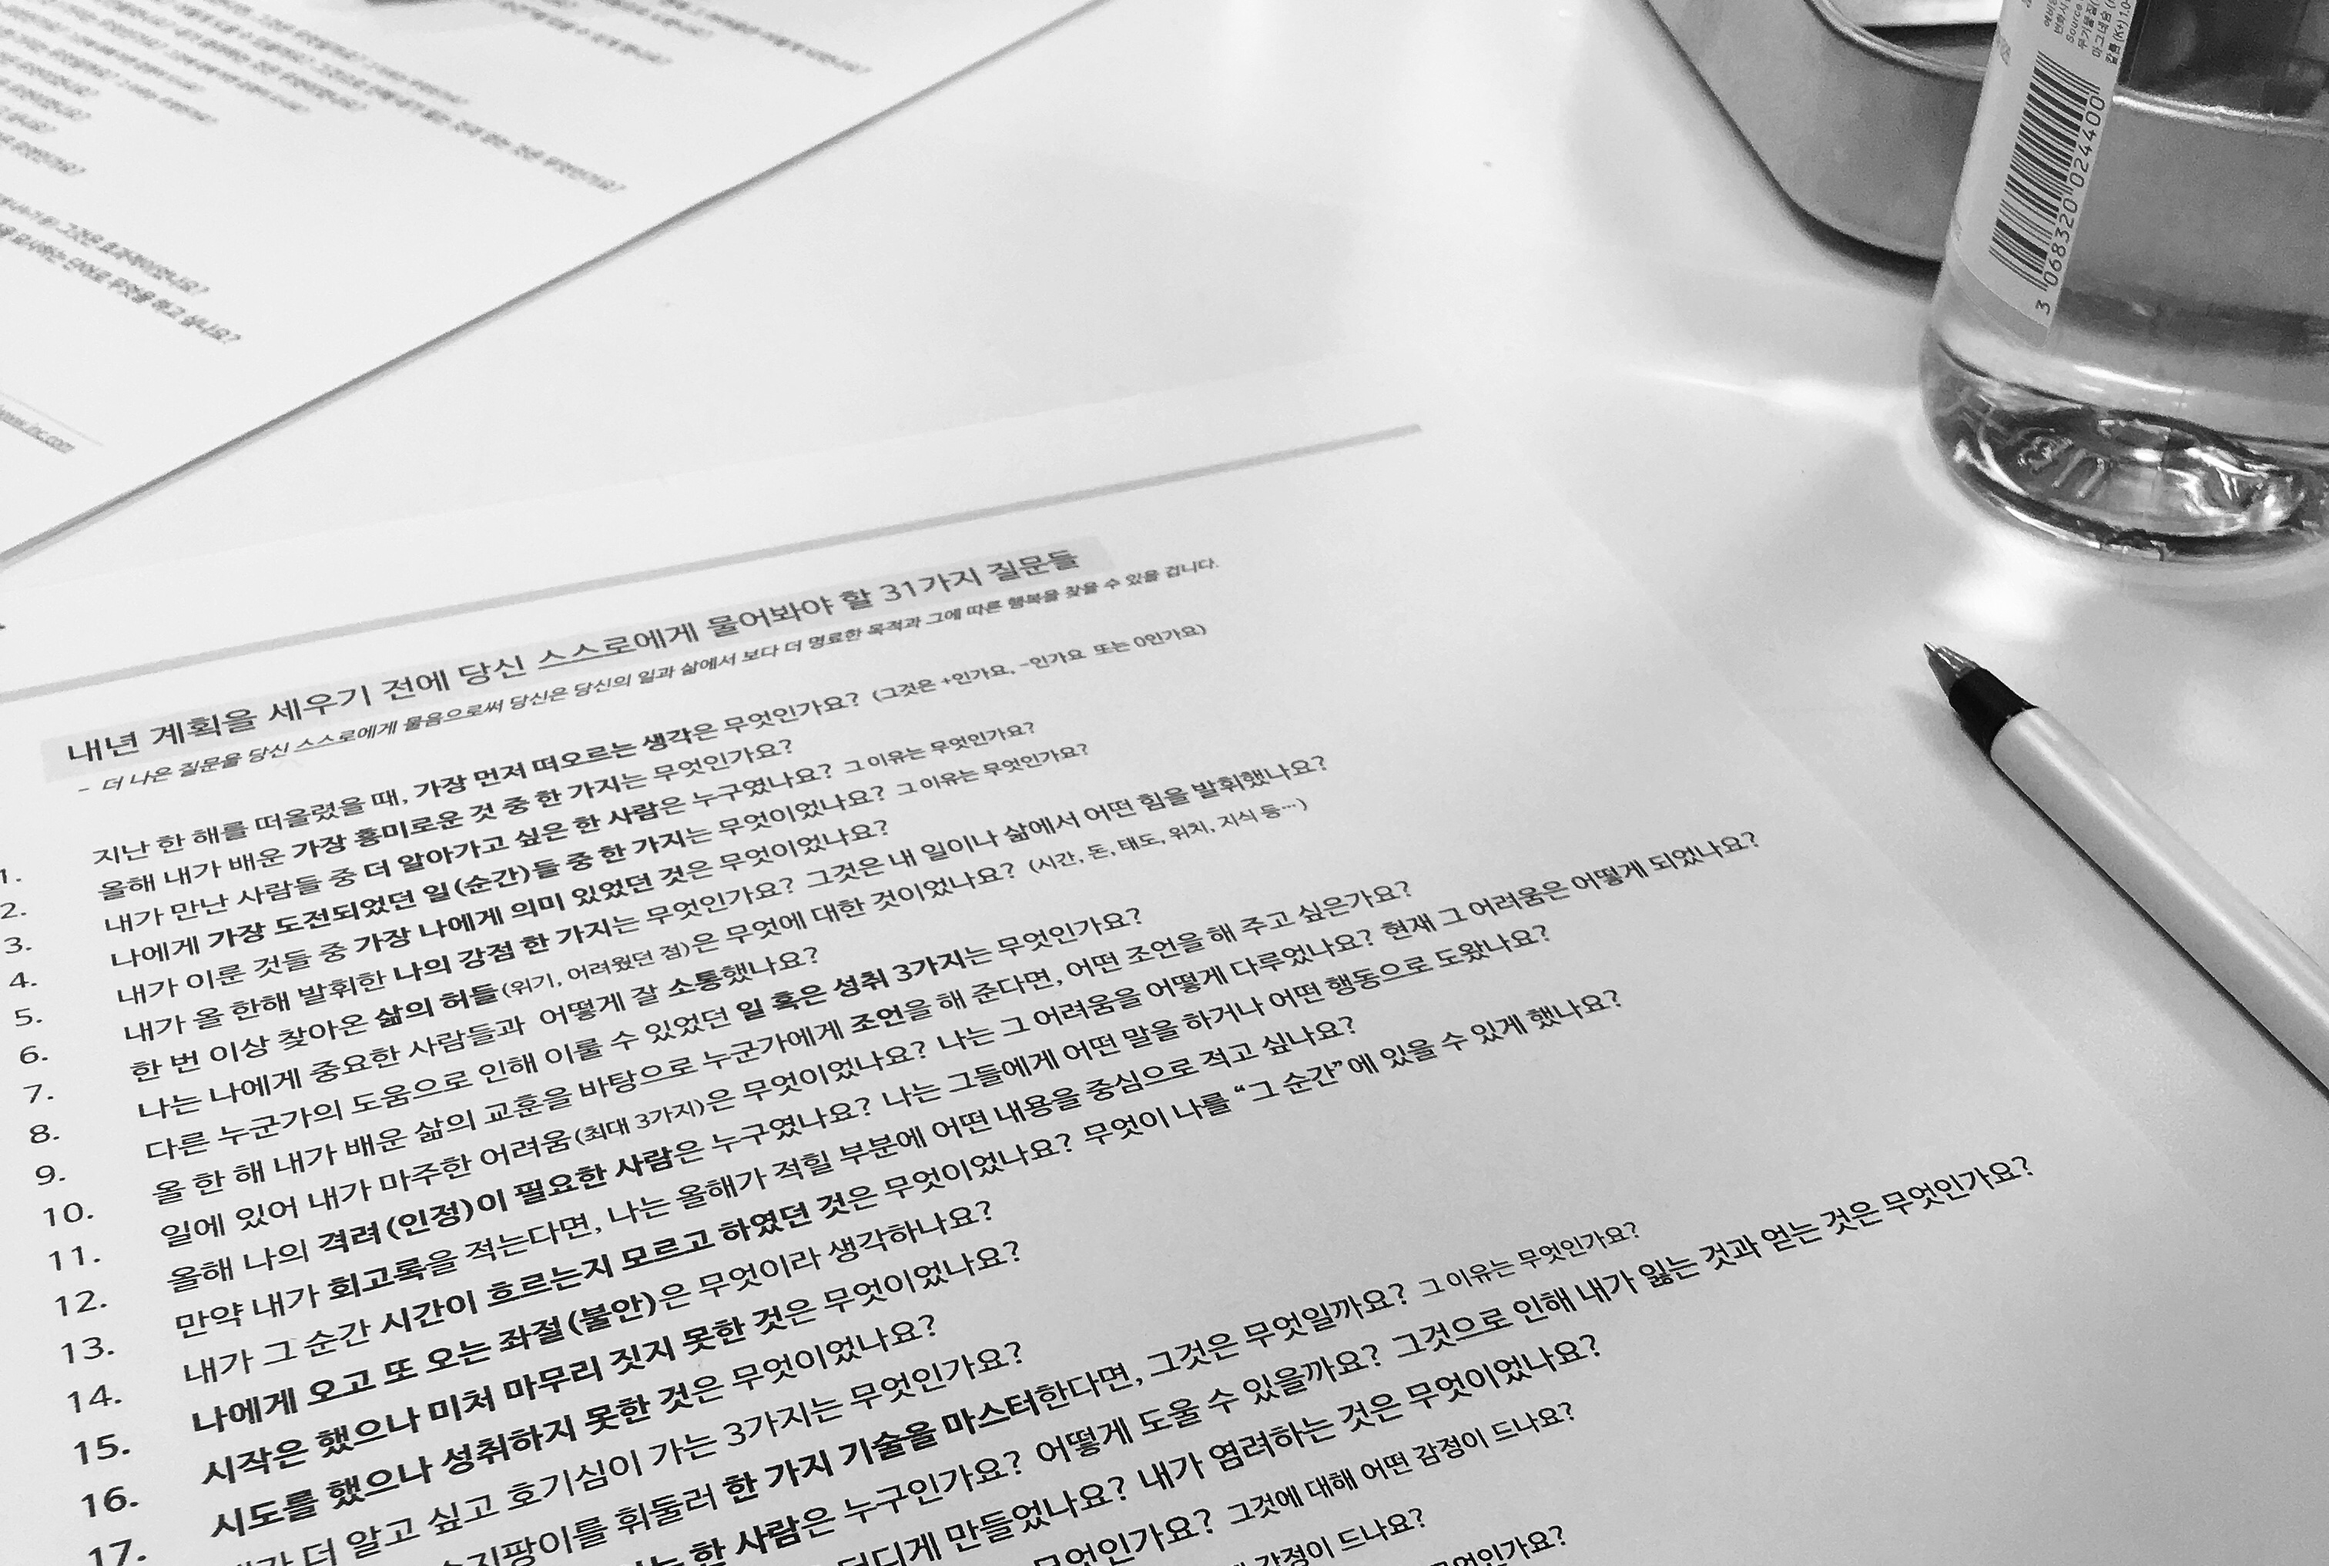
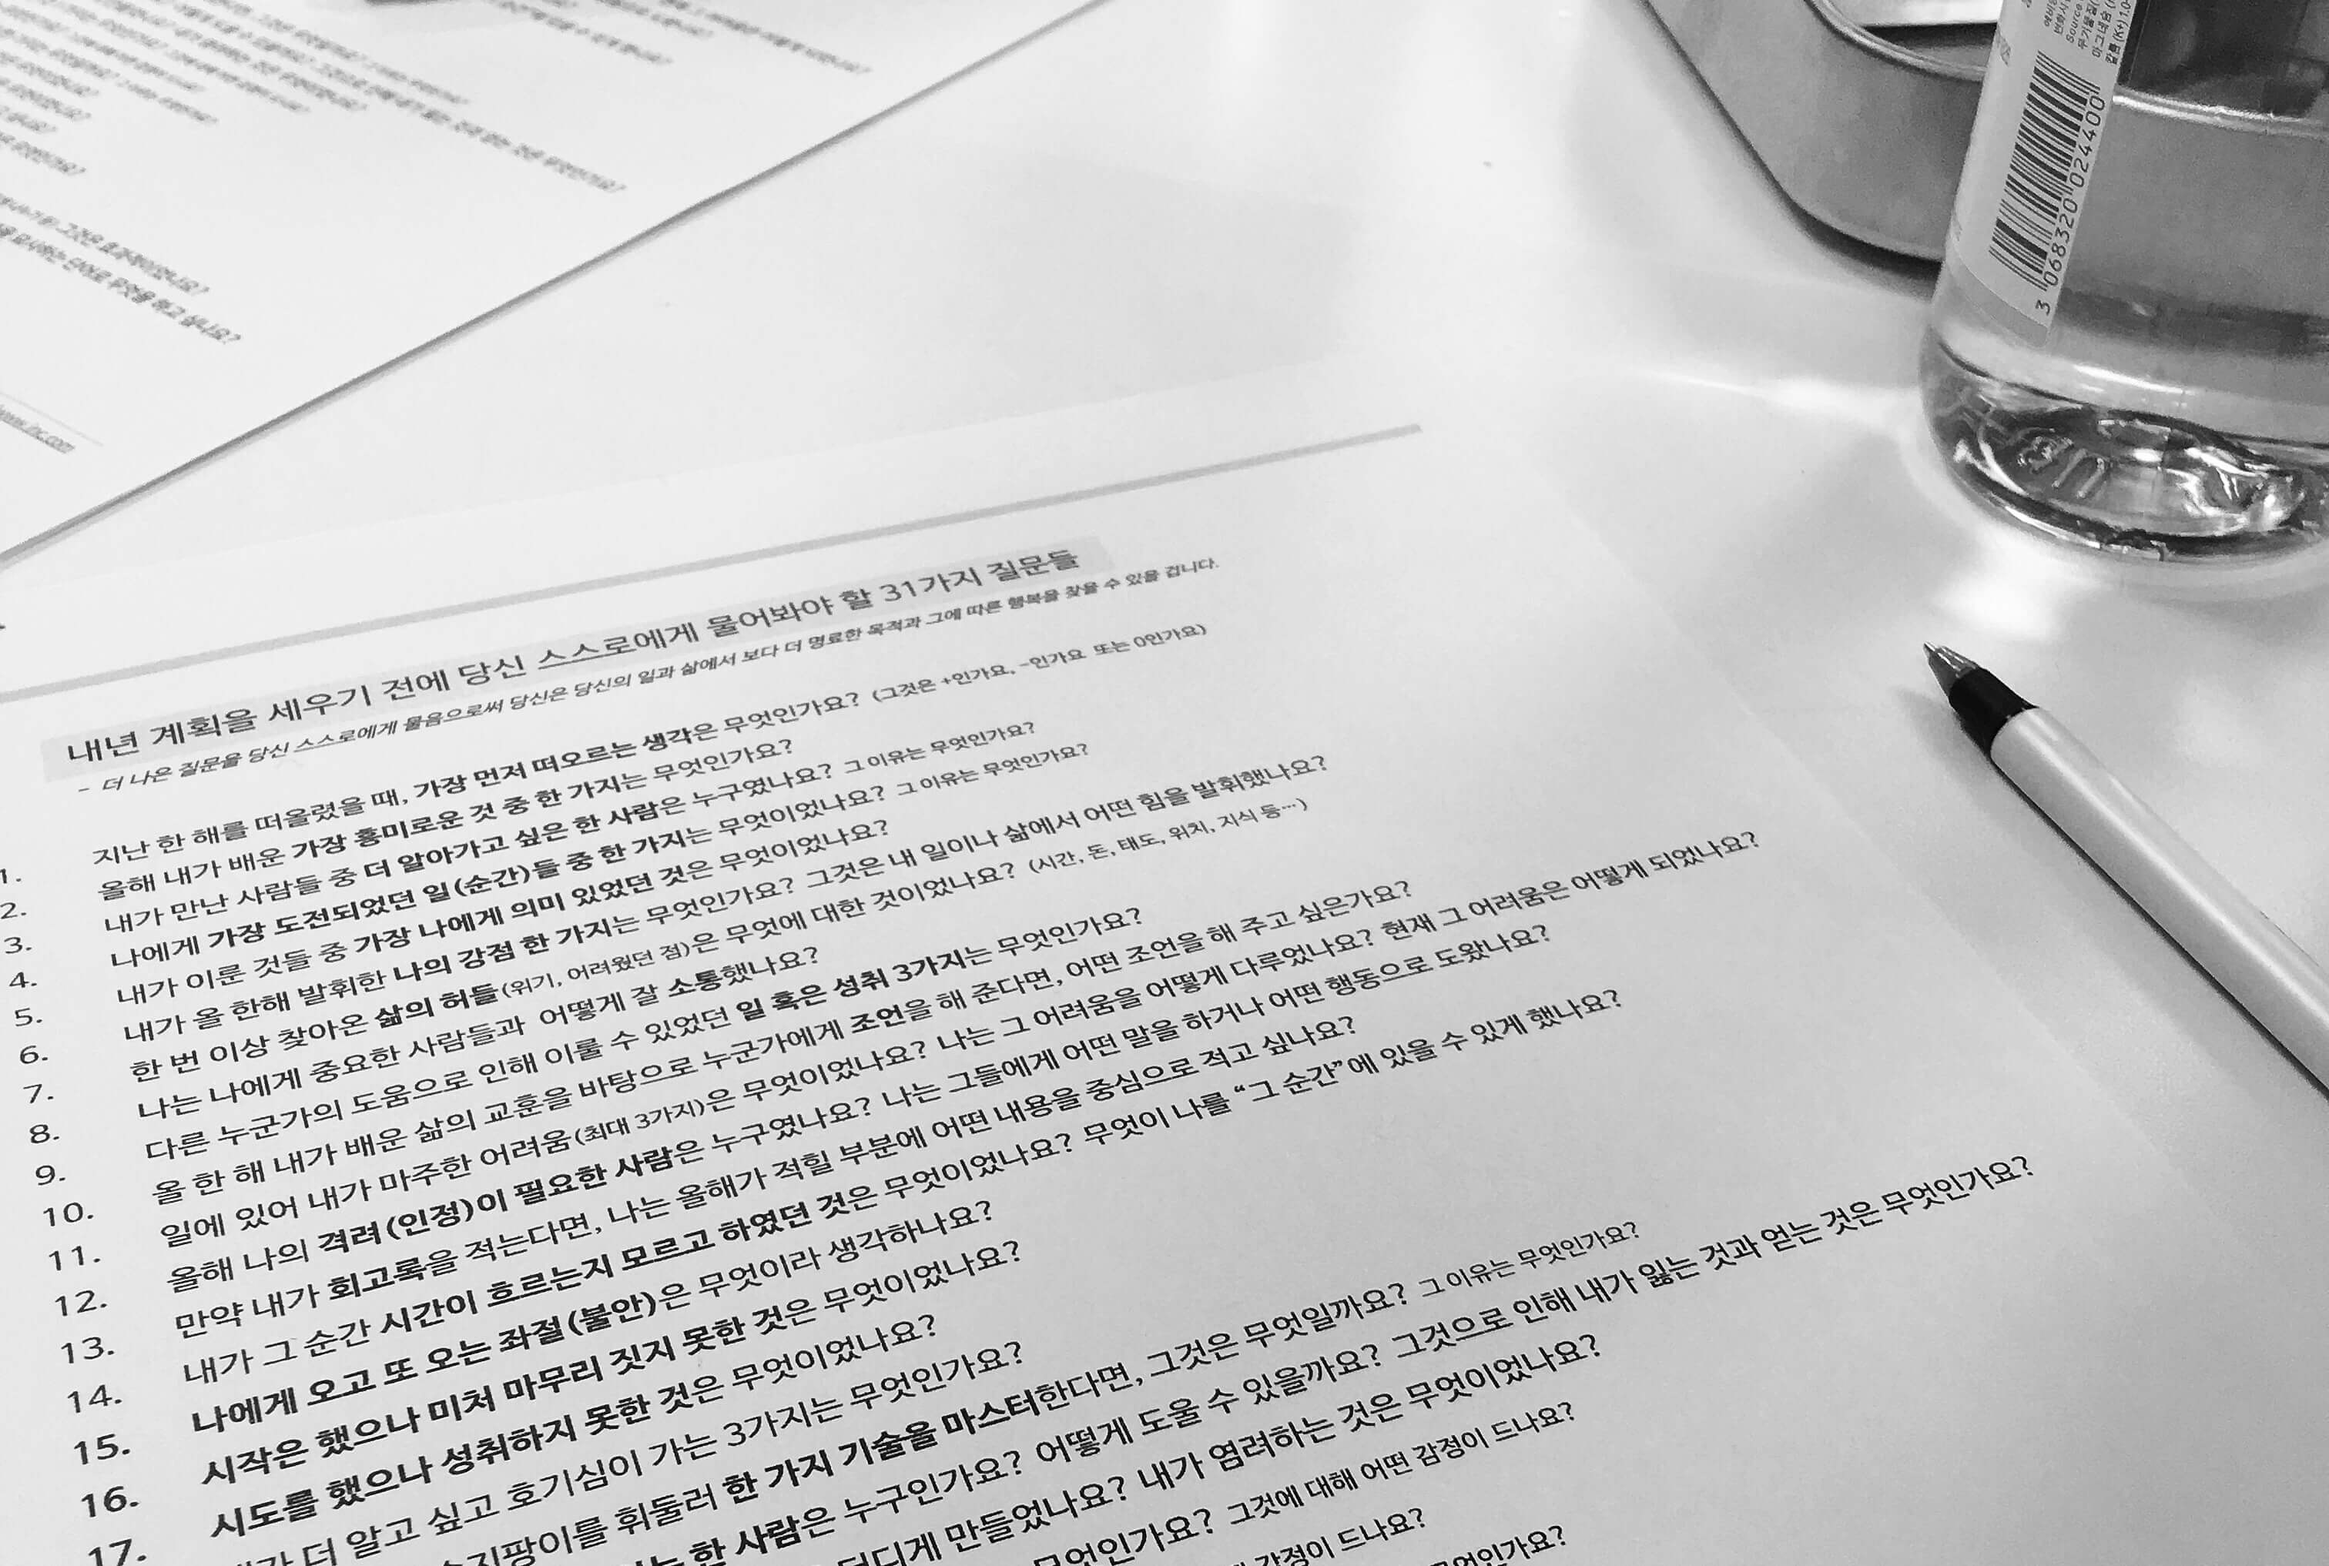
이미지 리사이징

Changed region(s): [[0.6217, 0.9912, 0.6528, 1.0]]

diff --git a/_sass/_fonts.sass b/_sass/_fonts.sass
@@ -2,7 +2,7 @@
 // font-family
 ////////////////////
 
-$sans-serif: 'NanumSquare', sans-serif
+$sans-serif: 'NanumSquare', -apple-system, BlinkMacSystemFont, Apple SD Gothic Neo, sans-serif
 $serif: 'Nanum Myeongjo', sans-serif
 $en-sans-serif: 'Lato', sans-serif
 
